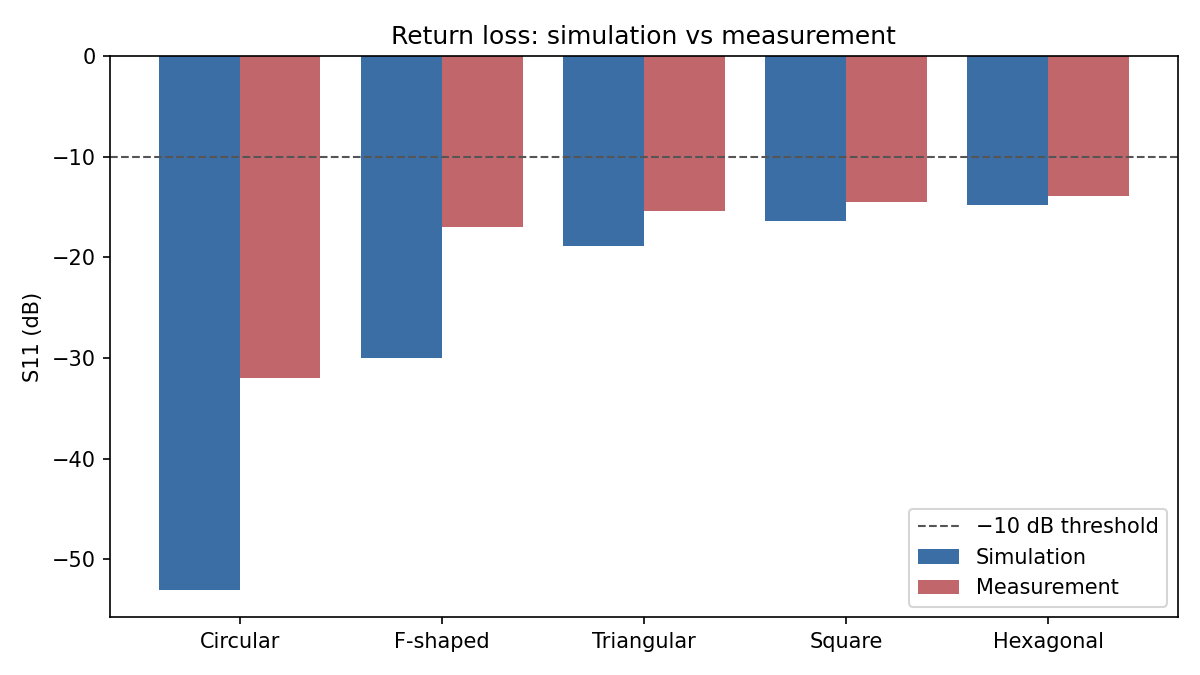
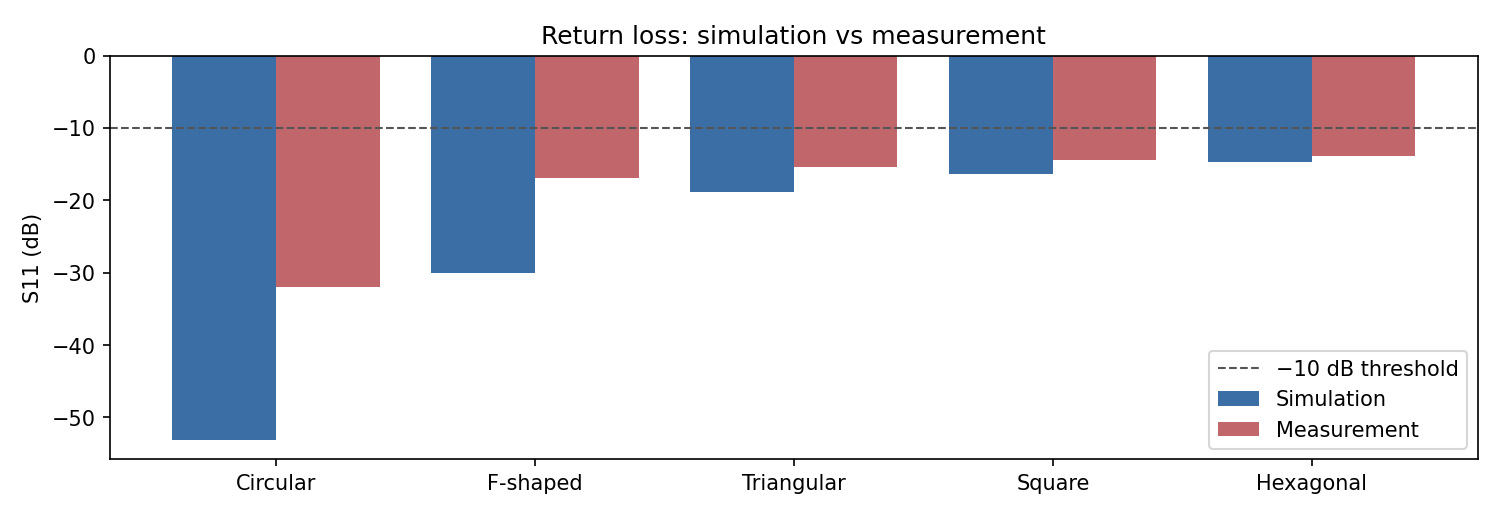
updated images

Changed region(s): [[0.0, 0.0309, 0.9867, 0.9594]]

diff --git a/tools/antenna/plots.py b/tools/antenna/plots.py
@@ -31,7 +31,7 @@ def overview(out_dir: str, ds: Optional[Dataset] = None) -> List[str]:
     # 1. Simulated vs measured return loss.
     sim = [g.simulation.s11_db for g in ds.geometries]
     meas = [g.measurement.s11_db if g.measurement else float("nan") for g in ds.geometries]
-    fig, ax = plt.subplots(figsize=(8, 4.5))
+    fig, ax = plt.subplots(figsize=(10, 3.45))
     ax.bar([i - 0.2 for i in x], sim, width=0.4, label="Simulation", color="#3b6ea5")
     ax.bar([i + 0.2 for i in x], meas, width=0.4, label="Measurement", color="#c1666b")
     ax.axhline(-10, ls="--", lw=1, color="#555", label="−10 dB threshold")